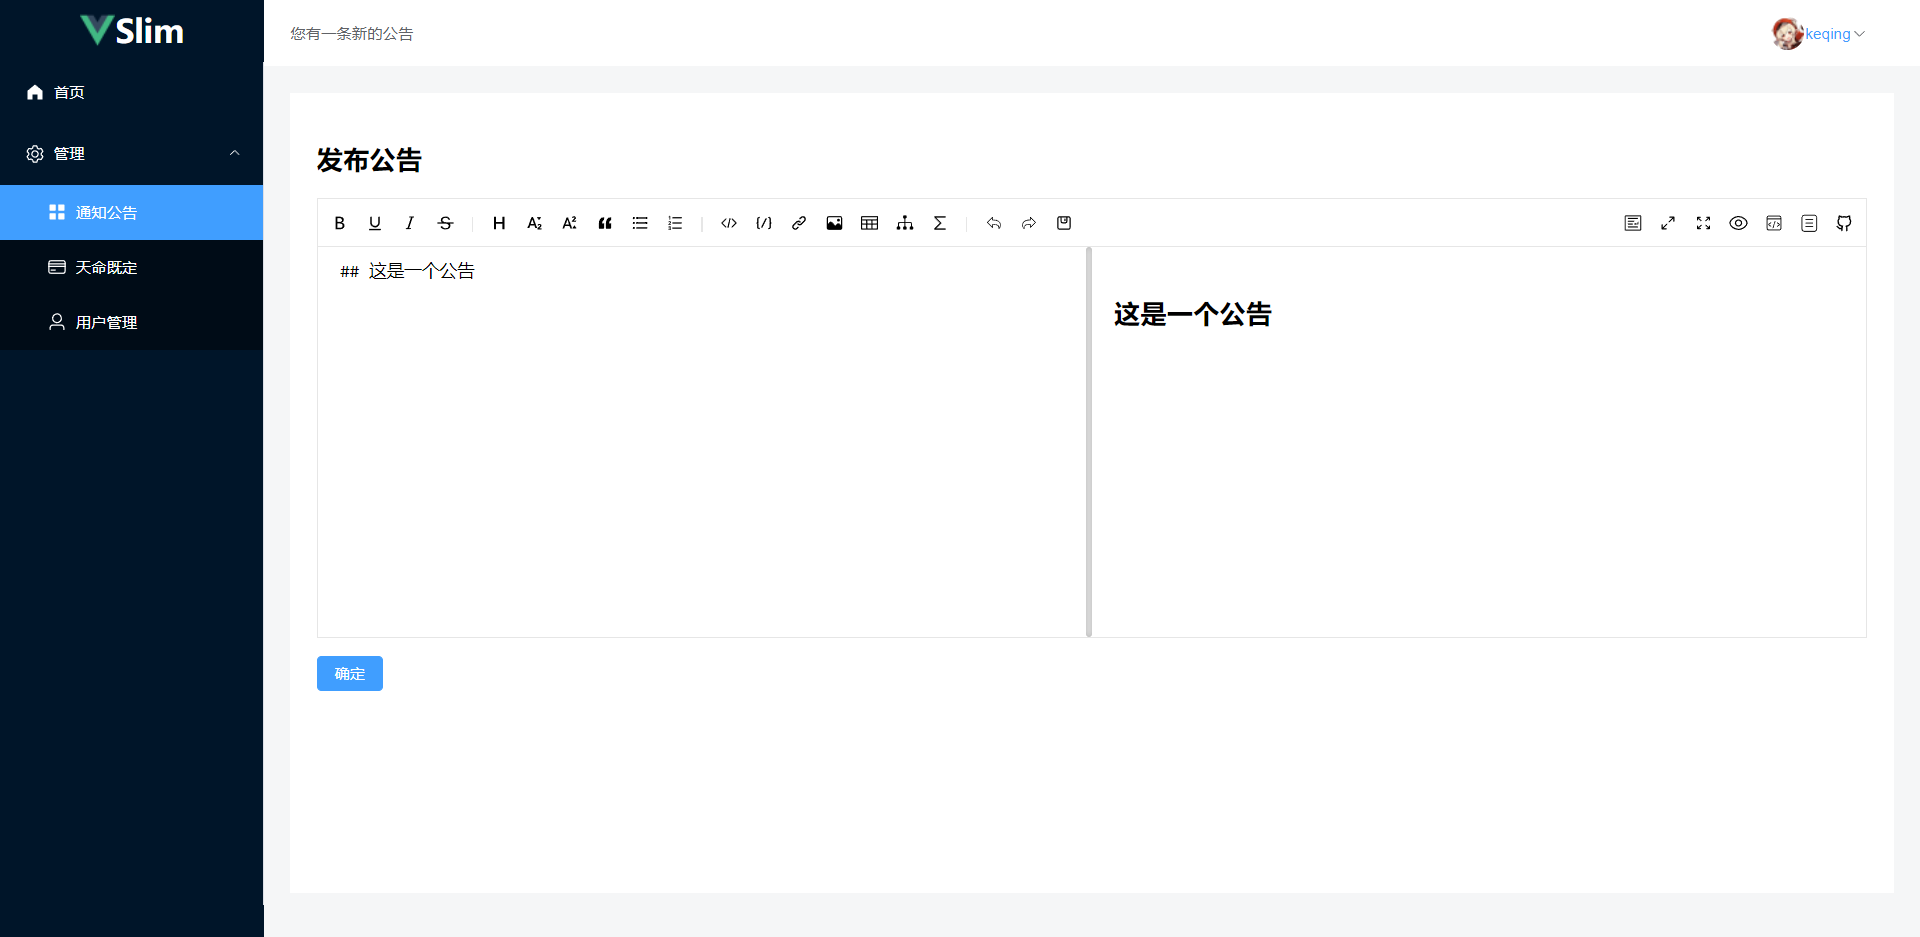
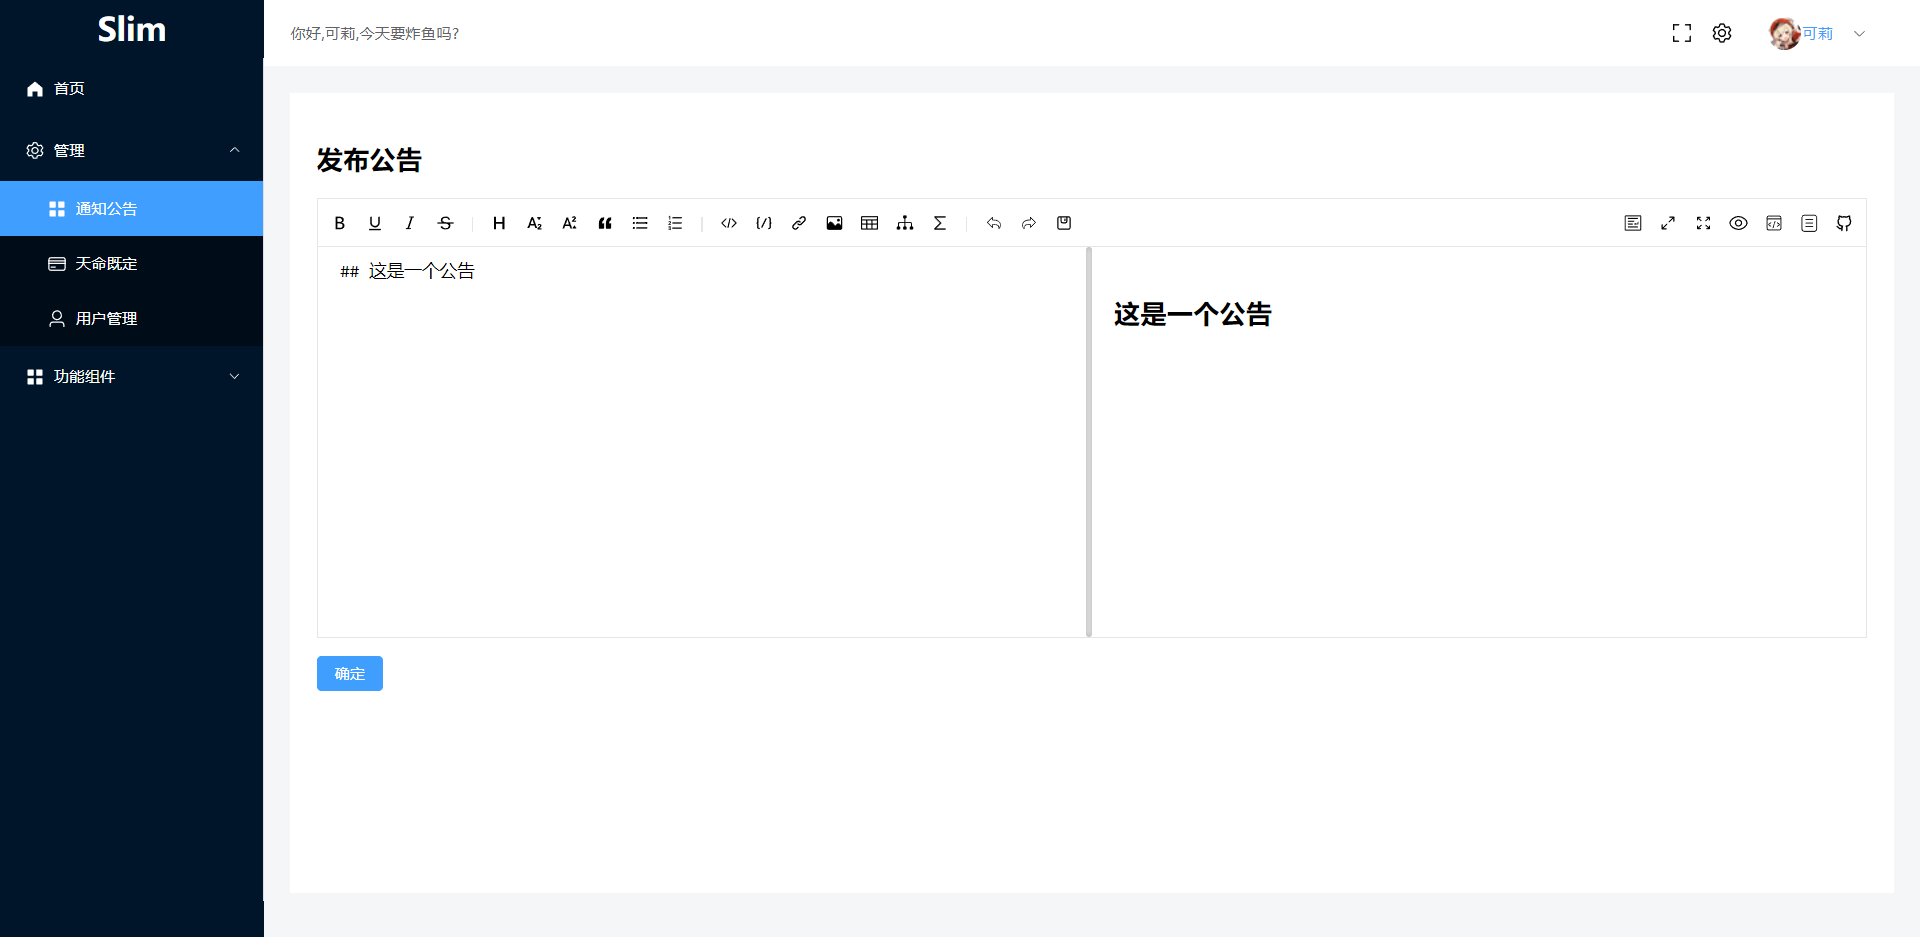
use pinia

diff --git a/src/auto-imports.d.ts b/src/auto-imports.d.ts
@@ -8,6 +8,7 @@ declare global {
   const $ref: typeof import('vue/macros')['$ref']
   const $shallowRef: typeof import('vue/macros')['$shallowRef']
   const $toRef: typeof import('vue/macros')['$toRef']
+  const acceptHMRUpdate: typeof import('pinia')['acceptHMRUpdate']
   const asyncComputed: typeof import('@vueuse/core')['asyncComputed']
   const autoResetRef: typeof import('@vueuse/core')['autoResetRef']
   const computed: typeof import('vue')['computed']
@@ -21,21 +22,21 @@ declare global {
   const createEventHook: typeof import('@vueuse/core')['createEventHook']
   const createGlobalState: typeof import('@vueuse/core')['createGlobalState']
   const createInjectionState: typeof import('@vueuse/core')['createInjectionState']
-  const createLogger: typeof import('vuex')['createLogger']
-  const createNamespacedHelpers: typeof import('vuex')['createNamespacedHelpers']
+  const createPinia: typeof import('pinia')['createPinia']
   const createReactiveFn: typeof import('@vueuse/core')['createReactiveFn']
   const createSharedComposable: typeof import('@vueuse/core')['createSharedComposable']
-  const createStore: typeof import('vuex')['createStore']
   const createUnrefFn: typeof import('@vueuse/core')['createUnrefFn']
   const customRef: typeof import('vue')['customRef']
   const debouncedRef: typeof import('@vueuse/core')['debouncedRef']
   const debouncedWatch: typeof import('@vueuse/core')['debouncedWatch']
   const defineAsyncComponent: typeof import('vue')['defineAsyncComponent']
   const defineComponent: typeof import('vue')['defineComponent']
+  const defineStore: typeof import('pinia')['defineStore']
   const eagerComputed: typeof import('@vueuse/core')['eagerComputed']
   const effectScope: typeof import('vue')['effectScope']
   const EffectScope: typeof import('vue')['EffectScope']
   const extendRef: typeof import('@vueuse/core')['extendRef']
+  const getActivePinia: typeof import('pinia')['getActivePinia']
   const getCurrentInstance: typeof import('vue')['getCurrentInstance']
   const getCurrentScope: typeof import('vue')['getCurrentScope']
   const h: typeof import('vue')['h']
@@ -48,10 +49,11 @@ declare global {
   const logicNot: typeof import('@vueuse/core')['logicNot']
   const logicOr: typeof import('@vueuse/core')['logicOr']
   const makeDestructurable: typeof import('@vueuse/core')['makeDestructurable']
-  const mapActions: typeof import('vuex')['mapActions']
-  const mapGetters: typeof import('vuex')['mapGetters']
-  const mapMutations: typeof import('vuex')['mapMutations']
-  const mapState: typeof import('vuex')['mapState']
+  const mapActions: typeof import('pinia')['mapActions']
+  const mapGetters: typeof import('pinia')['mapGetters']
+  const mapState: typeof import('pinia')['mapState']
+  const mapStores: typeof import('pinia')['mapStores']
+  const mapWritableState: typeof import('pinia')['mapWritableState']
   const markRaw: typeof import('vue')['markRaw']
   const nextTick: typeof import('vue')['nextTick']
   const onActivated: typeof import('vue')['onActivated']
@@ -87,9 +89,12 @@ declare global {
   const refThrottled: typeof import('@vueuse/core')['refThrottled']
   const refWithControl: typeof import('@vueuse/core')['refWithControl']
   const resolveComponent: typeof import('vue')['resolveComponent']
+  const setActivePinia: typeof import('pinia')['setActivePinia']
+  const setMapStoreSuffix: typeof import('pinia')['setMapStoreSuffix']
   const shallowReactive: typeof import('vue')['shallowReactive']
   const shallowReadonly: typeof import('vue')['shallowReadonly']
   const shallowRef: typeof import('vue')['shallowRef']
+  const storeToRefs: typeof import('pinia')['storeToRefs']
   const syncRef: typeof import('@vueuse/core')['syncRef']
   const syncRefs: typeof import('@vueuse/core')['syncRefs']
   const templateRef: typeof import('@vueuse/core')['templateRef']
@@ -206,7 +211,6 @@ declare global {
   const useSpeechSynthesis: typeof import('@vueuse/core')['useSpeechSynthesis']
   const useStorage: typeof import('@vueuse/core')['useStorage']
   const useStorageAsync: typeof import('@vueuse/core')['useStorageAsync']
-  const useStore: typeof import('vuex')['useStore']
   const useStyleTag: typeof import('@vueuse/core')['useStyleTag']
   const useSwipe: typeof import('@vueuse/core')['useSwipe']
   const useTemplateRefsList: typeof import('@vueuse/core')['useTemplateRefsList']

diff --git a/src/views/Login.vue b/src/views/Login.vue
@@ -55,10 +55,10 @@ import {
 } from "vue";
 import { ElMessage } from "element-plus";
 import { useRouter } from "vue-router";
-import { useStore } from "vuex";
+import {useUserStore} from "@/store/user";
 
 const router = useRouter();
-let store = useStore();
+let userStore =useUserStore()
 
 let activeName = $ref<string>("first");
 let title = $ref<string>("用户登录");
@@ -73,7 +73,7 @@ let regRule = $ref({
   password: [{ required: true, message: "请输入密码" }],
   password2: [{ required: true, message: "请输入确认密码" }],
 });
-let loginForm = $ref<object>({ username: "admin", password: "123456" });
+let loginForm = $ref<any>({ username: "admin", password: "123456" });
 let loginFormRef = ref(null);
 let regFormRef = ref(null);
 
@@ -81,11 +81,11 @@ function login() {
   loginFormRef.value.validate((valid: boolean) => {
     if (valid) {
       localStorage.token = "this is token";
-      store.commit("setUserInfo", loginForm);
+      userStore.setUserInfo(loginForm)
       router.push({ name: "adminHome" });
-      loginApi(loginForm.username, loginForm.password).then((res) => {
+      loginApi(loginForm ).then((res) => {
         if (res.success) {
-          store.commit("setUserToken", res.data);
+          userStore.setUserToken(res)
           localStorage.token = res.data;
           ElMessage({ message: "success", type: "success" });
           router.push({ name: "adminWelcome" });

diff --git a/src/layout/Sidebar.vue b/src/layout/Sidebar.vue
@@ -77,14 +77,14 @@ import {
   User, PieChart, AlarmClock,
 } from "@element-plus/icons-vue";
 
-import { useStore } from "vuex";
 import { useRoute, RouterLink, useRouter } from "vue-router";
 import { Menu } from "@/components/type";
+import {ThemeState, useThemeStore} from "@/store/themeConfig";
 
 let defaultActive = $ref<string>("adminHome");
 const router = useRouter();
 const route = useRoute();
-let store=useStore()
+ let themeStore= useThemeStore()
 function gotoRoute(params: string) {
 
   router.push({ name: params });
@@ -95,11 +95,11 @@ const handleOpen = (key: string, keyPath: string[]) => {
 const handleClose = (key: string, keyPath: string[]) => {
   console.log(key, keyPath);
 };
-let themeConfig=$computed(() => {
-  return store.getters.themeConfig
+let themeConfig =$computed(() => {
+  return themeStore.$state
 })
-watch(themeConfig.dark,(val,oldVal) => {
-  if (val) {
+watch(themeConfig ,(val,oldVal) => {
+  if (val.dark) {
     console.log(`%cdark`,`color:red;font-size:16px;background:transparent`)
   }else {
 

diff --git a/src/utils/http.ts b/src/utils/http.ts
@@ -1,6 +1,7 @@
 import qs from "qs";
 import axios, { AxiosRequestConfig } from "axios";
-import store from "@/store";
+import {useUserStore} from "@/store/user";
+
 const instance = axios.create({
   baseURL: document.domain, //接口统一域名
   timeout: 6000, //设置超时
@@ -10,11 +11,11 @@ instance.defaults.withCredentials = true;
 instance.interceptors.request.use(
   (config: AxiosRequestConfig) => {
     console.log("requestUrl==", config.url);
-
+let userStore=useUserStore()
     config.headers["version"] = "1.0";
     config.headers["Content-Type"] = "application/json;charset=UTF-8";
-    if (store.getters.token) {
-      config.headers.token = store.getters.token;
+    if (userStore.token) {
+      config.headers.token =  userStore.token
     }
 
     console.log(config);

diff --git a/src/layout/Header.vue b/src/layout/Header.vue
@@ -59,10 +59,10 @@
 import {ArrowDown, FullScreen, Setting} from "@element-plus/icons-vue";
 import {useRouter} from "vue-router";
 import {watch} from "vue";
-import {useStore} from "vuex";
+import {ThemeState, useThemeStore} from "@/store/themeConfig";
 
 let router = useRouter();
-let store=useStore()
+let {setThemeConfig}=useThemeStore()
 let userInfo = $ref({name: "可莉"});
 let notice = $ref(`你好,${userInfo.name},今天要炸鱼吗?`);
 let settingDraw = $ref<boolean>(false)
@@ -89,8 +89,8 @@ function logout() {
   localStorage.clear();
   router.push({name: "login"});
 }
-watch(theme,(val,oldVal) => {
-  store.commit("setThemeConfig",val)
+watch(theme,(val:ThemeState,oldVal) => {
+  setThemeConfig(val)
 },{immediate:true})
 </script>
 

diff --git a/src/store/themeConfig.ts b/src/store/themeConfig.ts
@@ -1,0 +1,37 @@
+export interface ThemeState {
+
+    dark: boolean
+    contentPadding: boolean
+
+}
+
+export const useThemeStore = defineStore(
+    {
+        id: 'themeConfig',
+        state: (): ThemeState => ({
+
+            dark: true,
+            contentPadding: true
+
+
+        }),
+        getters: {
+
+            getDark(): boolean {
+                return this.dark
+            }, getContentPadding(): boolean {
+                return this.contentPadding
+            }
+        },
+        actions: {
+
+            setContentPadding(val: boolean) {
+                this.contentPadding = val
+            }
+            , setThemeConfig(val: ThemeState) {
+                this.$state = val
+            }
+        },
+    }
+)
+

diff --git a/src/views/system/UserManage.vue b/src/views/system/UserManage.vue
@@ -11,8 +11,8 @@
     </el-table-column>
     <el-table-column label="操作">
       <template #default="{ row }">
-        <el-button type="primary" @click="showDialog(row)">点击我</el-button>
-        <el-button type="danger" @click="deleteRow(row)">点击我</el-button>
+        <el-button type="primary" @click="showDialog(row)">信息</el-button>
+        <el-button type="danger" @click="deleteRow(row)">删除</el-button>
       </template>
     </el-table-column>
   </el-table>

diff --git a/src/store/user.ts b/src/store/user.ts
@@ -1,0 +1,30 @@
+
+export interface UserState {
+
+    token: string;
+    username: string;
+
+}
+export const useUserStore = defineStore({
+  id:'user',
+  state:():UserState=> {
+    return {
+       token: "", username: ""
+    };
+  },
+  getters: {
+    token  ():string   {
+      return this.token;
+    } ,
+
+  },
+  actions: {
+    setUserToken(  val:string) {
+      this. token = val;
+    },
+    setUserInfo(  val:UserState ) {
+      this.$state = val;
+    },
+
+  },
+});

diff --git a/src/main.ts b/src/main.ts
@@ -3,9 +3,9 @@ import App from "./App.vue";
 import router from "./router";
 import MdEditorV3 from "md-editor-v3";
 import "md-editor-v3/lib/style.css";
-import store from "./store";
+import {pinia} from "@/store";
 const app = createApp(App);
 app.use(MdEditorV3);
 app.use(router);
-app.use(store);
+app.use(pinia);
 app.mount("#app");

diff --git a/src/layout/Content.vue b/src/layout/Content.vue
@@ -6,11 +6,11 @@
   </el-main>
 </template>
  <script setup lang="ts">
- import {useStore} from "vuex";
+import {useThemeStore} from "@/store/themeConfig";
 
- let store=useStore()
+let themeStore=useThemeStore()
 let themeConfig=$computed(() => {
-  return store.getters.themeConfig
+  return themeStore.$state
 })
 
  </script>

diff --git a/vite.config.ts b/vite.config.ts
@@ -15,7 +15,7 @@ export default defineConfig({
             imports: [
                 'vue',
                 "vue-router",
-                "vuex",
+                "pinia",
                 'vue/macros',
                 '@vueuse/head',
                 '@vueuse/core',

diff --git a/src/store/index.ts b/src/store/index.ts
@@ -1,0 +1,2 @@
+import { createPinia } from 'pinia'
+export const pinia = createPinia()
